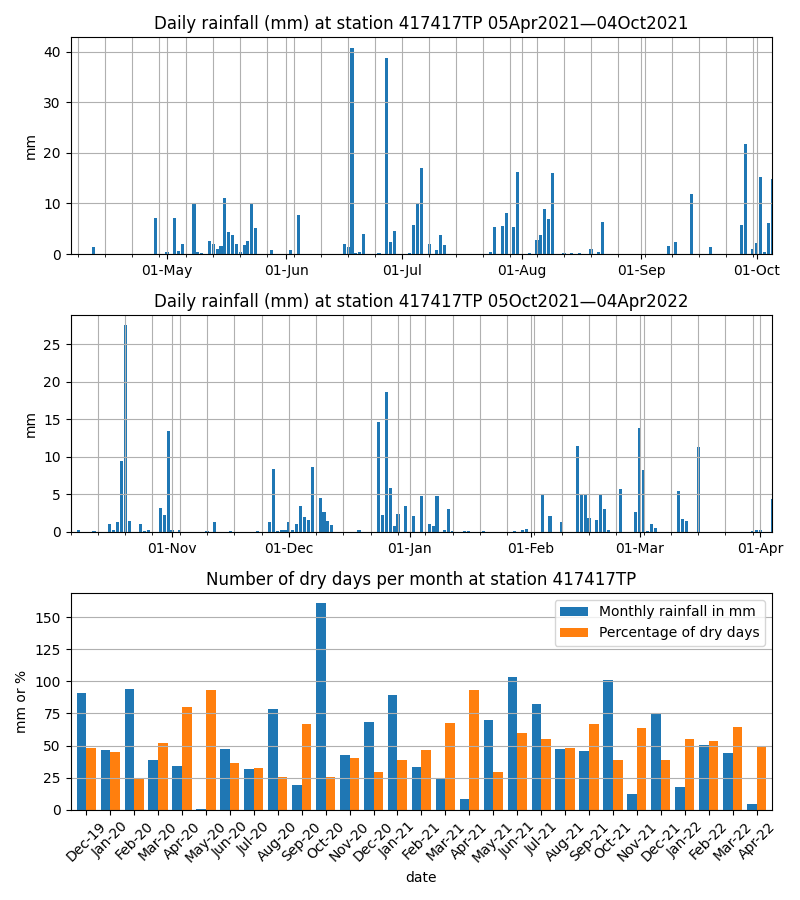
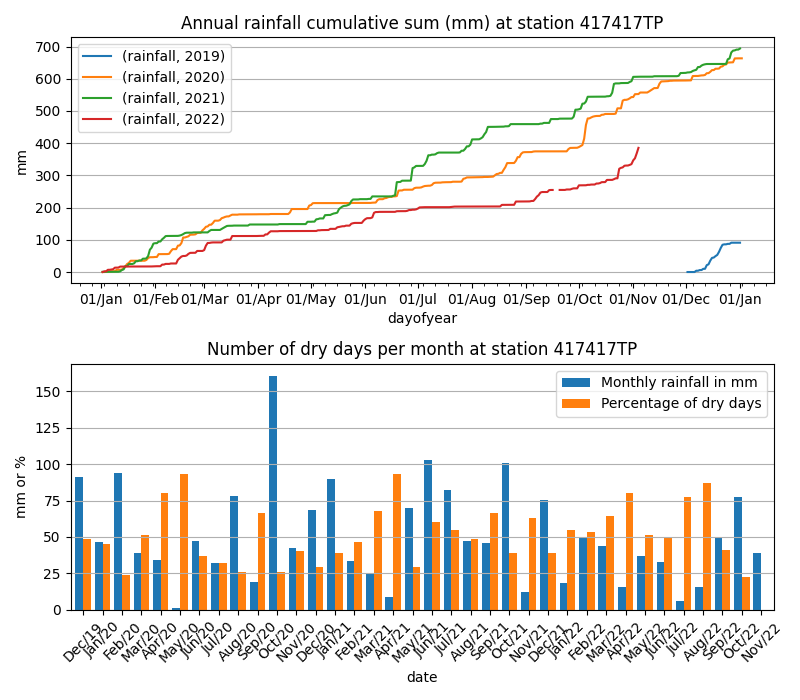
update

Changed region(s): [[0.0, 0.0, 0.9688, 0.99], [0.0, 0.21, 0.0312, 0.24]]

diff --git a/historicaldata.py b/historicaldata.py
@@ -9,6 +9,8 @@ import matplotlib.pyplot as plt
 import matplotlib.dates as mdates
 import urllib
 import datetime
+import calmap
+import numpy as np
 station='417417TP'
 # Ham Island, Old Windsor: https://environment.data.gov.uk/flood-monitoring/id/stations/417417TP.html
 
@@ -25,8 +27,18 @@ def readOrigData(station,startdate,enddate):
             print("No data for {}".format(d.date()))
             continue
     
-        df2=df[df.measure.str.contains(station)]
-        total=pd.to_numeric(df2.value,errors='coerce').sum()
+        df['fvalue']=pd.to_numeric(df.value,errors='coerce')
+        # data sanity check: should not have over 100 mm in a 15 min interval
+        # according to https://en.wikipedia.org/wiki/United_Kingdom_weather_records#Rainfall 
+        # the highest 5 min total in the UK is 32mm, and the highest 30 min total is 80 mm.
+        max_allowed=100. 
+        # values above max_allowed:
+        sus=df[(df.measure.str.contains(station)) & (df.fvalue>100.)]
+        if len(sus)>0:
+            print("WARNING: unfeasable suspicious data value(s) skipped",sus)
+        # filter out any suspicious values
+        df2=df[(df.measure.str.contains(station)) & (df.fvalue<=100.)]
+        total=df2.fvalue.sum()
         totals.append(total)
         dates.append(d)
         print(d.date(),total)
@@ -61,7 +73,8 @@ register_matplotlib_converters()
 
 df=pd.read_csv('rainfall.csv',usecols=[1,2],index_col=0,parse_dates=True)
 
-(fig,ax)=plt.subplots(nrows=3,ncols=1,sharex='none',figsize=(8,9))
+#(fig,ax)=plt.subplots(nrows=3,ncols=1,sharex='none',figsize=(8,10))
+(fig,ax)=plt.subplots(nrows=2,ncols=1,sharex='none',figsize=(8,7))
 
 #df.index=df.date
 #title="Daily rainfall (mm) at station {}".format(station)
@@ -107,33 +120,76 @@ def dailybar(df,title,ax):
     ax.title.set_text(title)
     ax.set_ylabel('mm')
 
+def calmapplot(df,title,ax):
+    pass
 
+# annual cummulative overlays
+def annualcumover(df,title,ax):
+    dfa=df.copy(deep=True)
+    dfa['year']=df.index.year
+    dfa['dayofyear']=df.index.dayofyear
+    table=pd.pivot_table(dfa,values=['rainfall'],index=['dayofyear'],columns=['year'])
+    table.cumsum(skipna=True).plot(ax=ax,use_index=True,legend=True)
+    ax.xaxis.set_major_formatter(mdates.DateFormatter('%d/%b'))
+    ax.title.set_text(title)
+    ax.set_ylabel('mm')
+    ax.xaxis.set_major_locator(mdates.MonthLocator(bymonthday=1,interval=1))
+    ax.xaxis.set_minor_locator(mdates.DayLocator(interval=7))
+    ax.grid(axis='y',which='major')
+    ax.get_legend().set_title(None)
 
 # recent daily
-title="Daily rainfall (mm) at station {}".format(station)
-halfyearago=(datetime.datetime.now()-datetime.timedelta(days=183))
-oneyearago=(halfyearago-datetime.timedelta(days=183))
-range0=u" {}\u2014{}".format(oneyearago.strftime("%d%b%Y"),(halfyearago-datetime.timedelta(days=1)).strftime("%d%b%Y"))
-range1=u" {}\u2014{}".format(halfyearago.strftime("%d%b%Y"),(max(df.index)).to_pydatetime().strftime("%d%b%Y"))
-dailybar(df[oneyearago:halfyearago],title+range0,ax[0])
-dailybar(df[halfyearago:],title+range1,ax[1])
+#title="Daily rainfall (mm) at station {}".format(station)
+#halfyearago=(datetime.datetime.now()-datetime.timedelta(days=183))
+#oneyearago=(halfyearago-datetime.timedelta(days=183))
+#range0=u" {}\u2014{}".format(oneyearago.strftime("%d%b%Y"),(halfyearago-datetime.timedelta(days=1)).strftime("%d%b%Y"))
+#range1=u" {}\u2014{}".format(halfyearago.strftime("%d%b%Y"),(max(df.index)).to_pydatetime().strftime("%d%b%Y"))
+#dailybar(df[oneyearago:halfyearago],title+range0,ax[0])
+#dailybar(df[halfyearago:],title+range1,ax[1])
+
+# cumsum years overlayed
+title="Annual rainfall cumulative sum (mm) at station {}".format(station)
+annualcumover(df,title,ax[0])
 
 # rain amount and dry days per month
 title="Number of dry days per month at station {}".format(station)
 #dfm=df.groupby(pd.Grouper(freq='M')).agg((('total','sum'),('drydays',lambda x: (x==0).sum())))
 dfm=df.groupby(pd.Grouper(freq='M')).agg((('total','sum'),('drydays',lambda x: 100.0*(x==0).sum()/x.count())))
-#ax[2].bar(dfm.index,dfm.rainfall.drydays)
-dfm.index=dfm.index.strftime('%b-%y')
-dfm.plot.bar(ax=ax[2],secondary_y='drydays',width=0.8)
-#ax[2].xaxis.set_major_locator(mdates.MonthLocator(bymonthday=1,interval=2))
-#ax[2].xaxis.set_minor_locator(mdates.MonthLocator(bymonthday=1,interval=1))
-#ax[2].xaxis.set_major_formatter(mdates.DateFormatter('%b-%y'))
-ax[2].legend(['Monthly rainfall in mm','Percentage of dry days'])
-ax[2].set_ylabel('mm or %')
-ax[2].grid(axis='y',which='major')
-ax[2].tick_params(axis='x', rotation=45)
-ax[2].title.set_text(title)
+#ax[1].bar(dfm.index,dfm.rainfall.drydays)
+dfm.index=dfm.index.strftime('%b/%y')
+print(dfm)
+dfm.plot.bar(ax=ax[1],secondary_y='drydays',width=0.8)
+#ax[1].xaxis.set_major_locator(mdates.MonthLocator(bymonthday=1,interval=2))
+#ax[1].xaxis.set_minor_locator(mdates.MonthLocator(bymonthday=1,interval=1))
+#ax[1].xaxis.set_major_formatter(mdates.DateFormatter('%b-%y'))
+ax[1].legend(['Monthly rainfall in mm','Percentage of dry days'])
+ax[1].set_ylabel('mm or %')
+ax[1].grid(axis='y',which='major')
+ax[1].tick_params(axis='x', rotation=45)
+ax[1].title.set_text(title)
 
 plt.tight_layout()
 fig.savefig('rainfall_plot.png')
 print("plot updated: rainfall_plot.png")
+
+#
+#(fig,ax)=plt.subplots(nrows=8,ncols=1,sharex=True,figsize=(8,10))
+#plt.matshow(ax=ax[0])
+
+# plot frequency distribution of daily rainfall to guide choice of colormap boundaries
+(fig,ax)=plt.subplots(nrows=1,ncols=1,sharex='none',figsize=(8,10))
+df.rainfall.plot.hist(bins=int(df.rainfall.max()),ax=ax,logy=True)
+fig.savefig('rainfall_freq.png')
+
+# threshold in mm of rain for day to be coloured blue in calmap
+threshold=5
+#turn rainfall into integer, seems to work better for color mapping
+dfc=df.copy(deep=True)
+dfc['irainfall']=dfc.rainfall.astype(np.int64)
+cmap=mpl.colors.ListedColormap(['white','blue'])
+boundaries=[0,threshold,100]
+norm=mpl.colors.BoundaryNorm(boundaries, cmap.N, clip=True)
+norm.autoscale(boundaries)
+(fig,ax)=calmap.calendarplot(dfc.irainfall,cmap=cmap,norm=norm)
+#plt.tight_layout()
+fig.savefig('rainfall_calmap.png')
